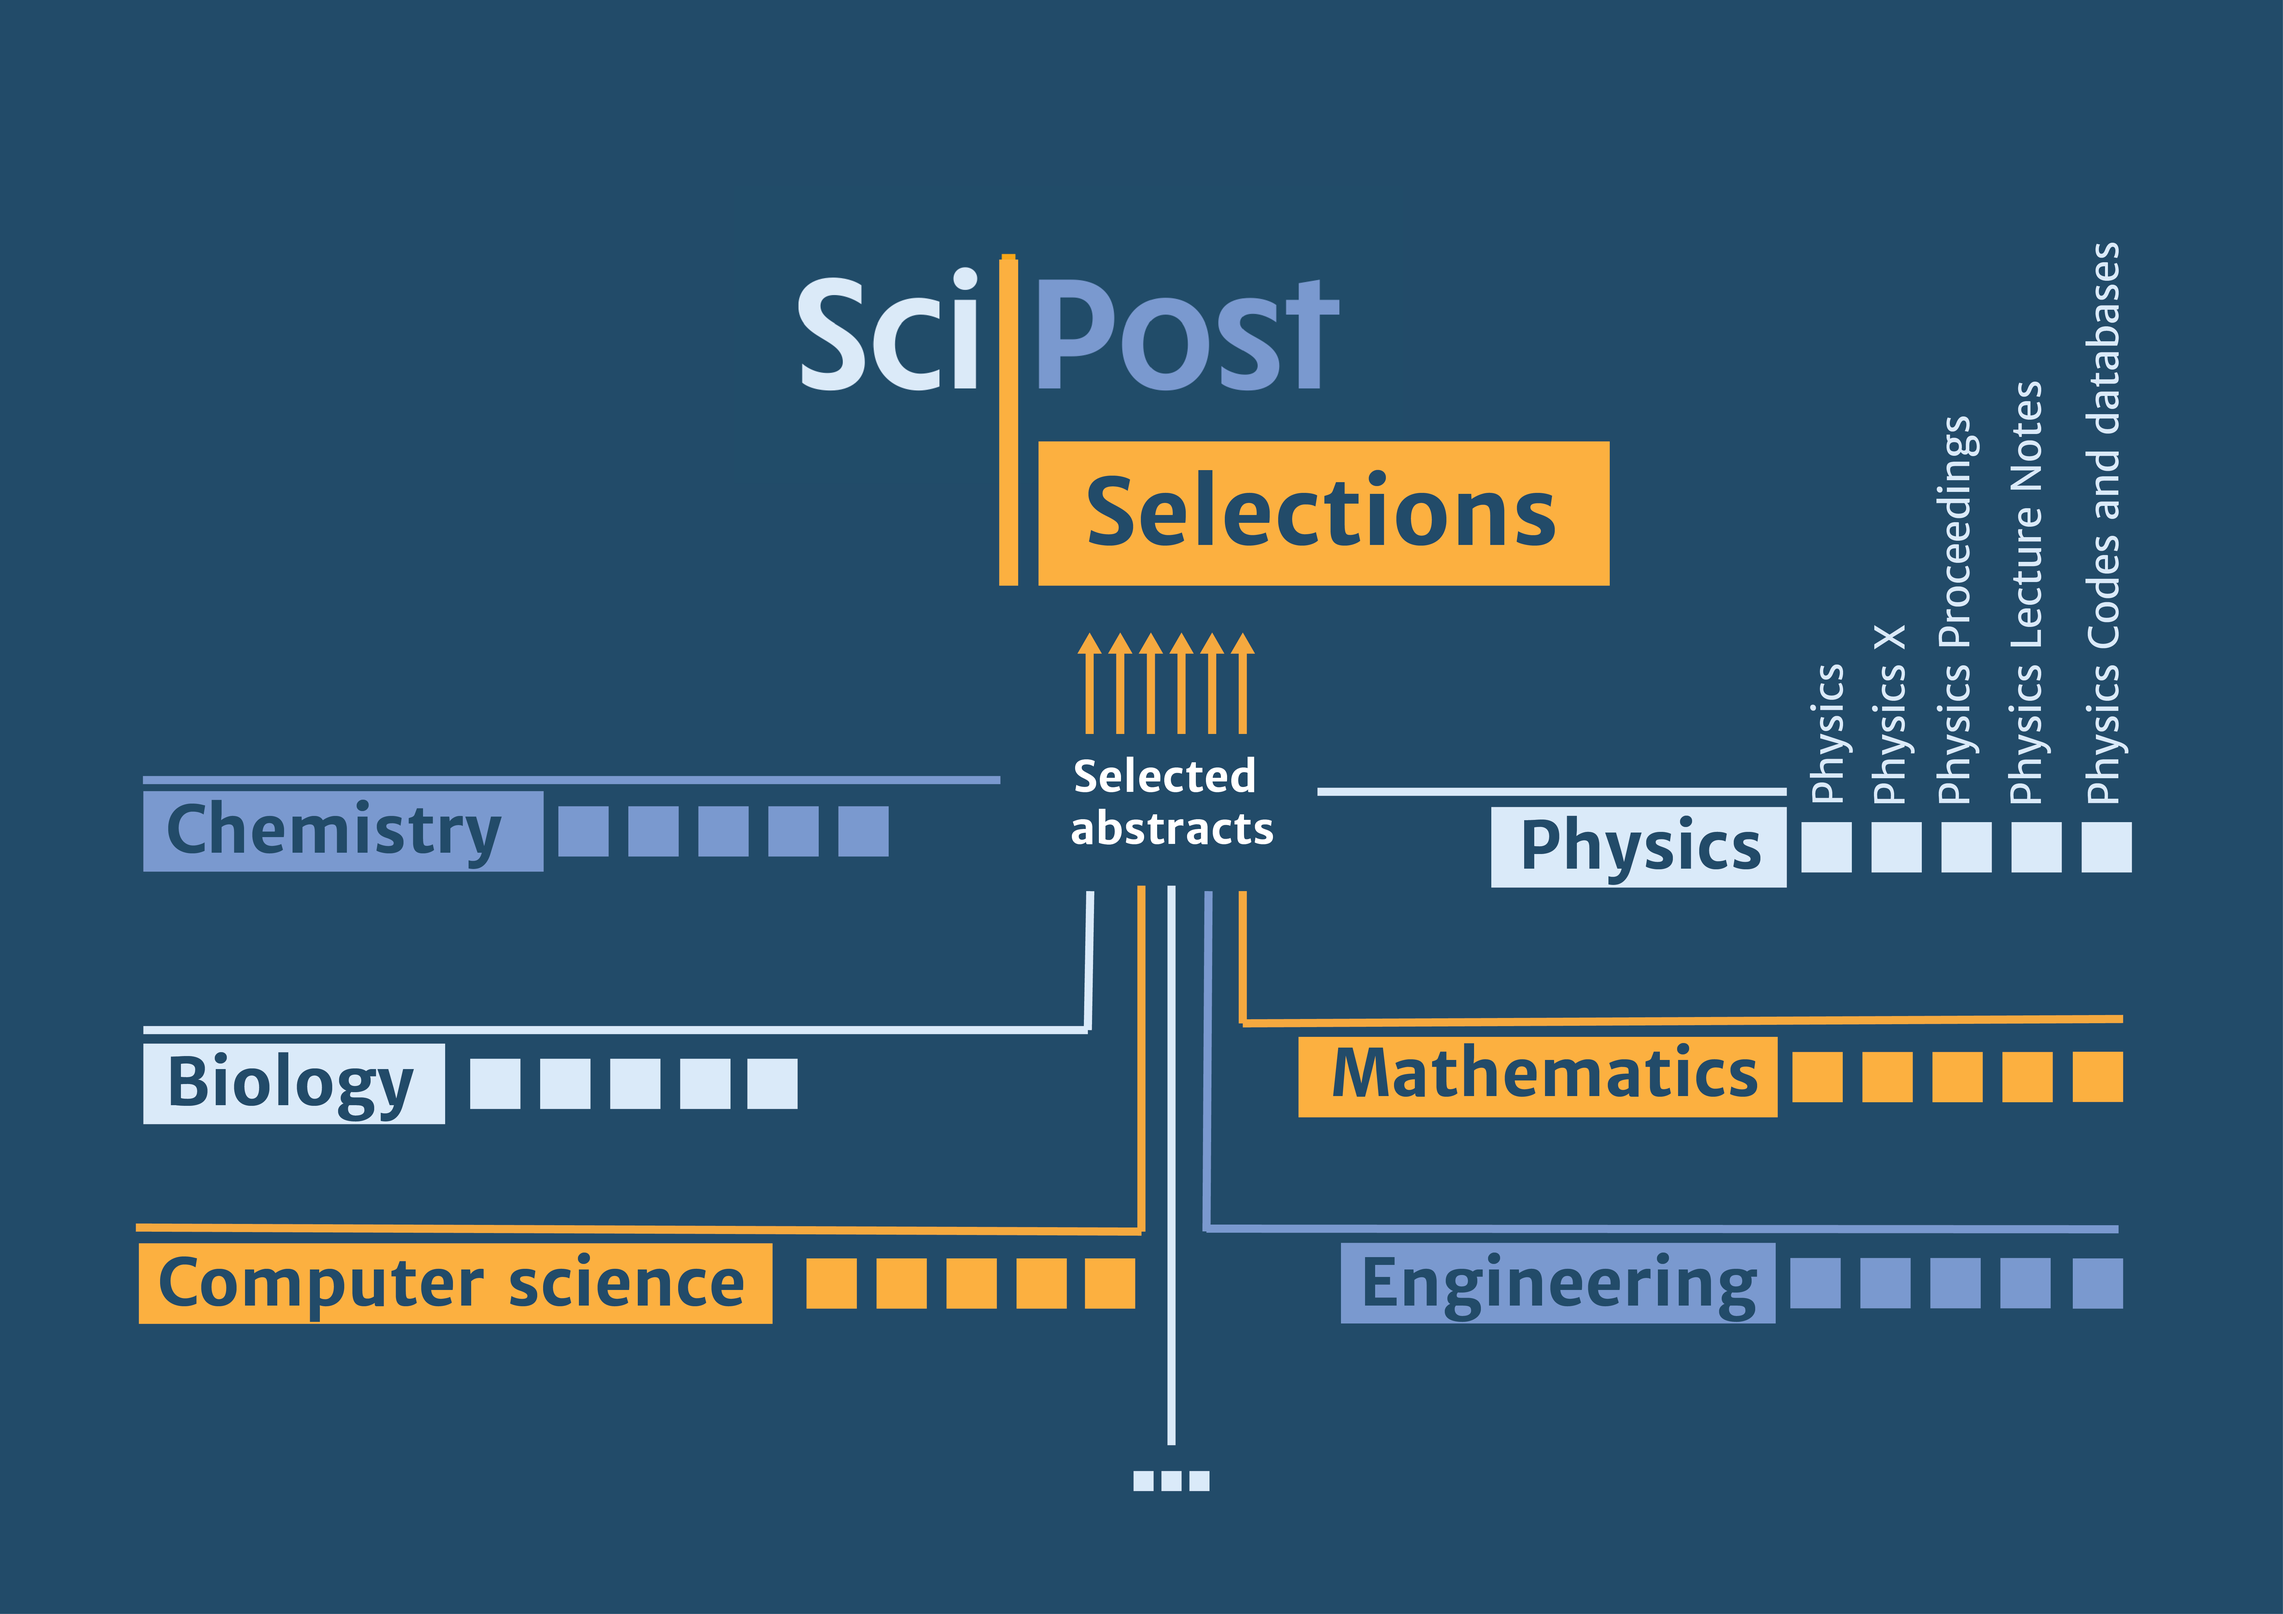
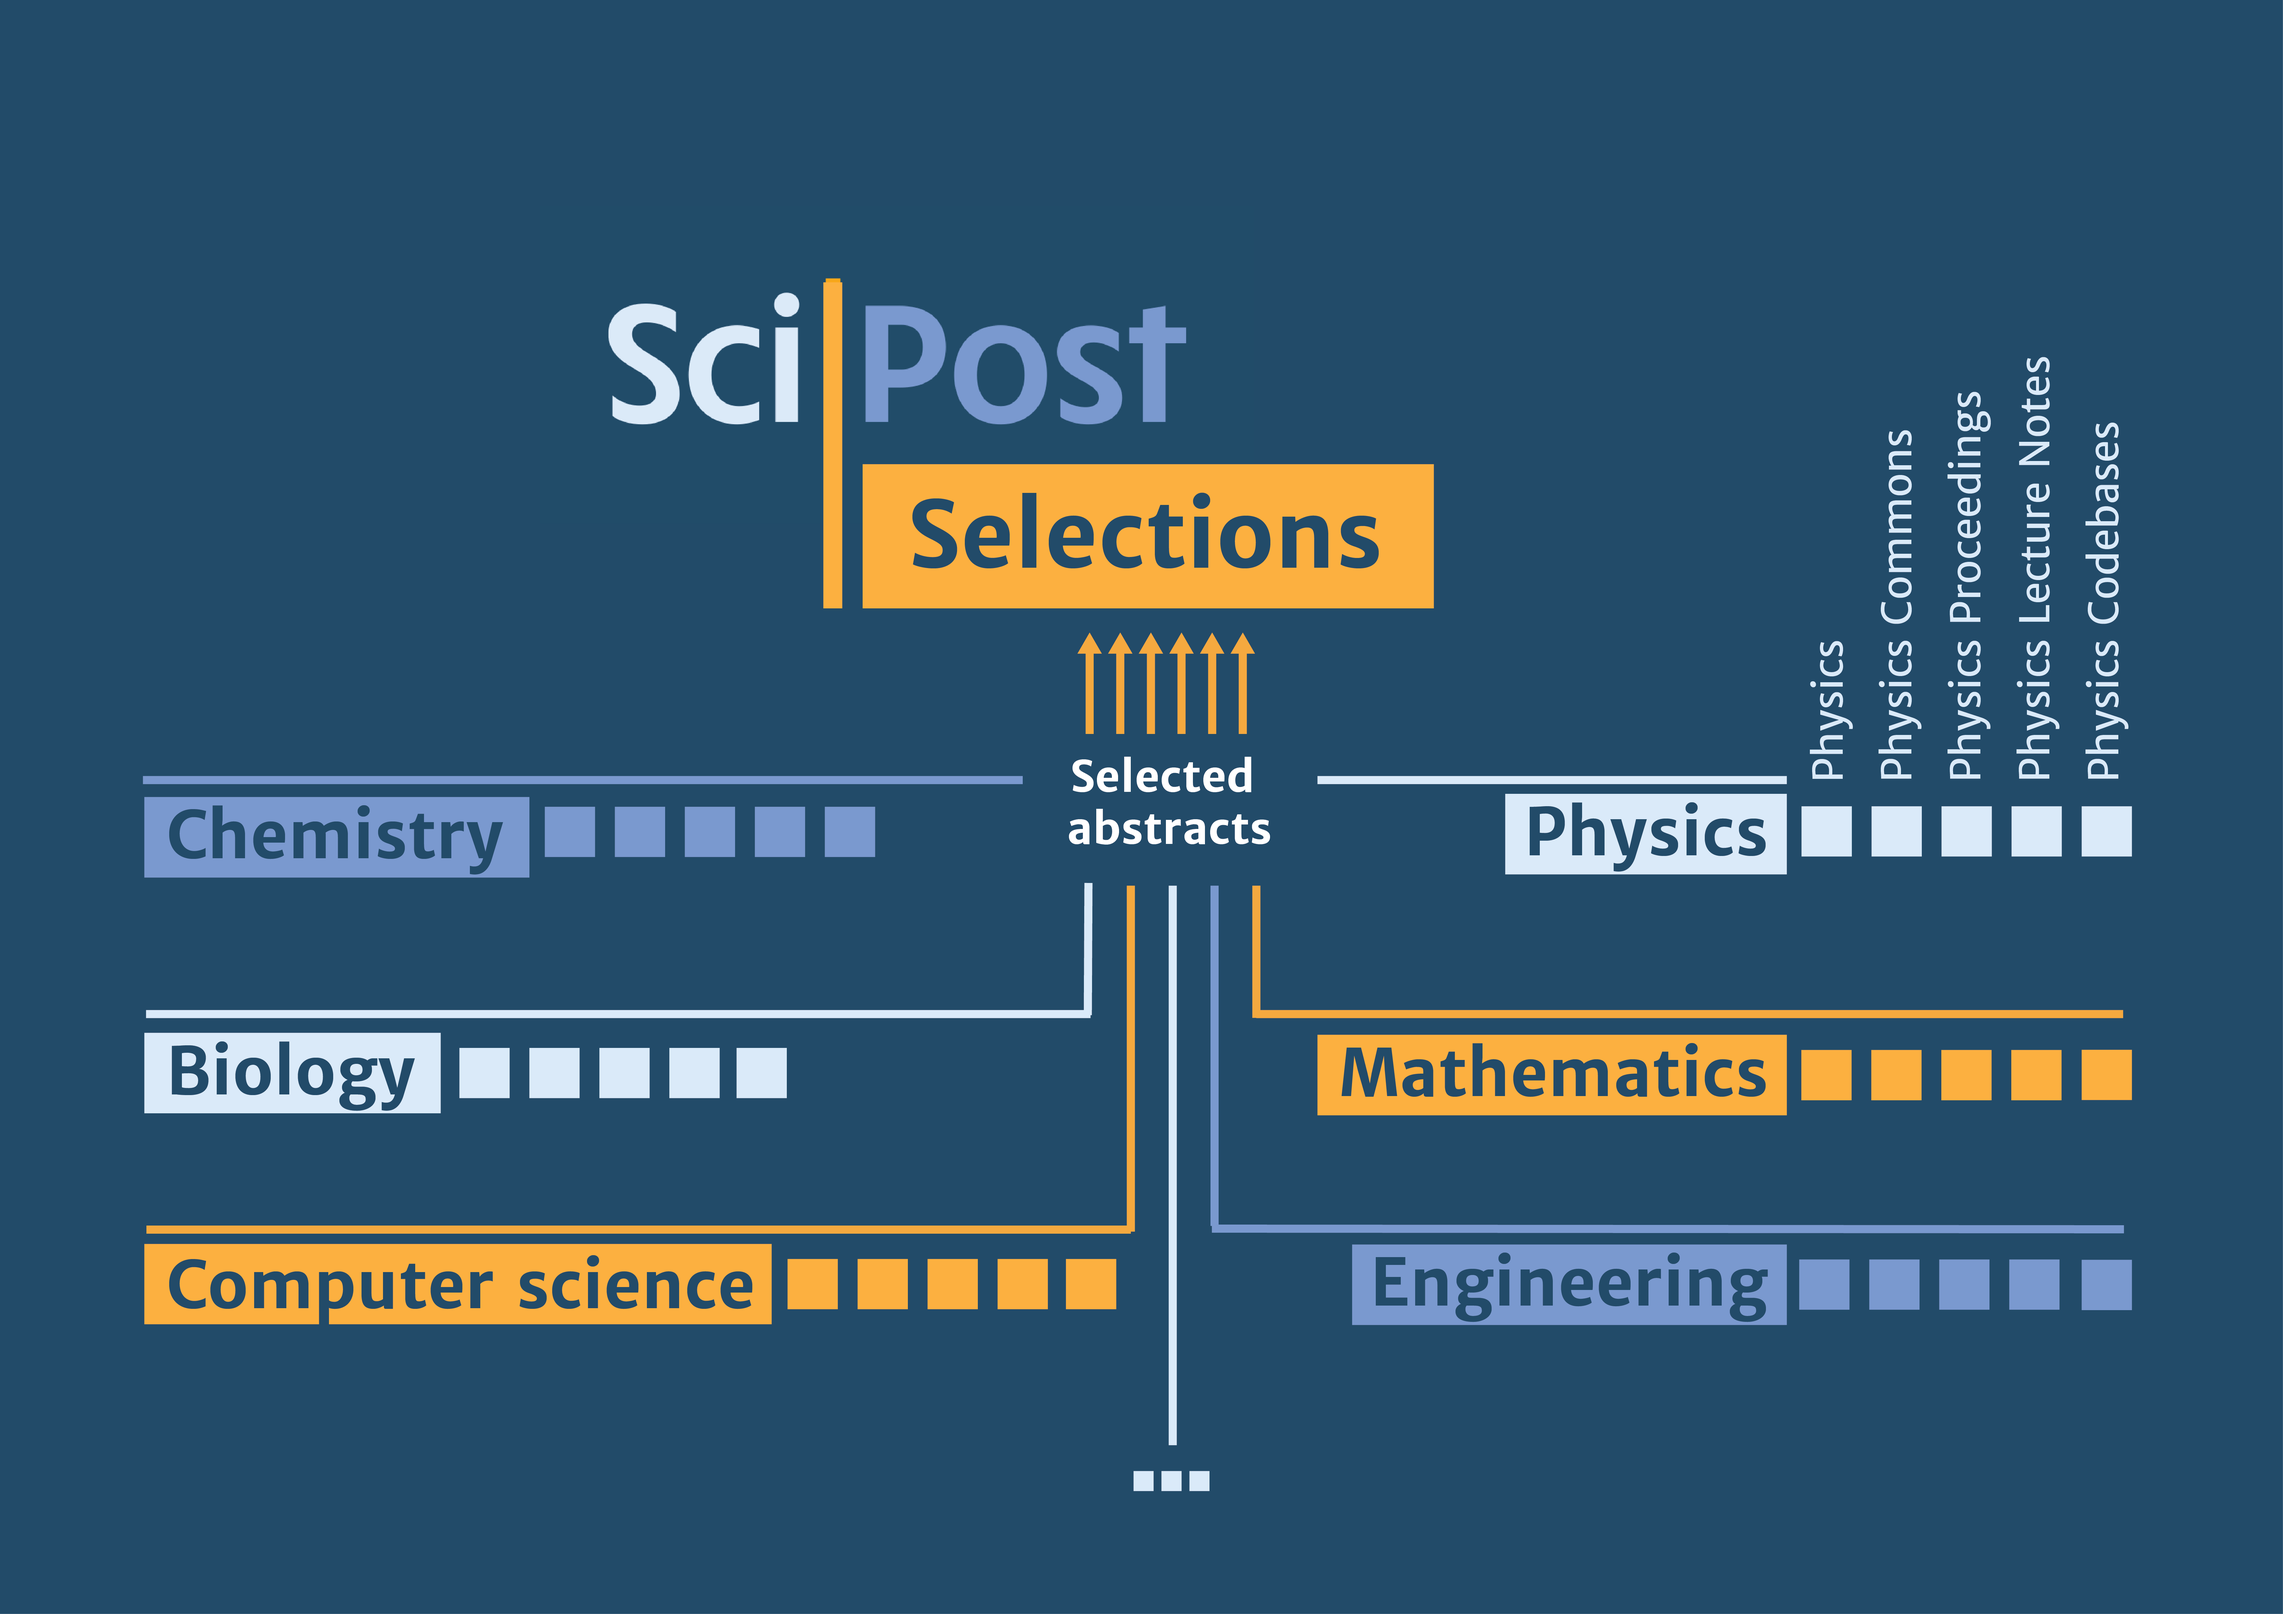
Define constants for new Journals: Physics Commons, Codebases

diff --git a/journals/templates/journals/journals.html b/journals/templates/journals/journals.html
@@ -64,14 +64,14 @@
   <h2><button class="btn btn-danger text-white mb-2 p-2" type="button" data-toggle="collapse" data-target="#WhereToSubmit" aria-expanded="false" aria-controls="WhereToSubmit"><strong>Help!</strong> Where should I submit?</button></h2>
   <div class="collapse" id="WhereToSubmit">
     <div class="card card-body">
-      <p>For <strong>Lecture Notes</strong>, <strong>Proceedings</strong> or <strong>Codebases/Datasets</strong>, the names say it all without ambiguity.</p>
+      <p>For <strong>Lecture Notes</strong>, <strong>Proceedings</strong> or <strong>Codebases</strong>, the names say it all without ambiguity.</p>
       <p>But what about your <strong>research results</strong>? Ask yourself these two questions:</p>
       <ul>
 	<li><em>Are these results exceptional in nature, in the sense that they represent a breakthrough or an achievement which clearly stands out?</em></li>
 	<li><em>Are you willing to make a special effort in conveying these results, in meeting the highest submission standards which we require, and in responding/reacting to any points raised under our toughest refereeing protocol?</em></li>
       </ul>
       <p>If you answered both questions in the affirmative, then consider submitting to <a href="{% url 'scipost:landing_page' 'SciPostPhys' %}">SciPost Physics</a>.</p>
-      <p>On the other hand, if your results represent a significant advance but you desire a simpler submission and refereeing process, then <a href="{% url 'scipost:landing_page' 'SciPostPhysAdv' %}">SciPost Physics Commons</a> will provide you with a more streamlined experience.</p>
+      <p>On the other hand, if your results represent a significant advance but you desire a simpler submission and refereeing process, then <a href="{% url 'scipost:landing_page' 'SciPostPhysComm' %}">SciPost Physics Commons</a> will provide you with a more streamlined experience.</p>
     </div>
   </div>
   <div class="card-deck">
@@ -89,7 +89,7 @@
     </div>
     <div class="card">
       <div class="card-header banner">
-	<h1 class="m-0"><a href="{% url 'scipost:landing_page' 'SciPostPhysAdv' %}">SciPost Physics Commons</a>&nbsp;&nbsp;<em><small style="color: red;">New!</small></em></h1>
+	<h1 class="m-0"><a href="{% url 'scipost:landing_page' 'SciPostPhysComm' %}">SciPost Physics Commons</a>&nbsp;&nbsp;<em><small style="color: red;">New!</small></em></h1>
       </div>
       <div class="card-body">
 	<p>SciPost Physics Commons is a premium-quality refereed Journal for the general field of Physics.</p>
@@ -122,15 +122,12 @@
     </div>
     <div class="card">
       <div class="card-header banner">
-	<h1 class="m-0"><a href="{% url 'scipost:landing_page' 'SciPostPhysCoDat' %}">SciPost Physics Codebases and Datasets</a>&nbsp;&nbsp;<em><small style="color: red;">New!</small></em></h1>
+	<h1 class="m-0"><a href="{% url 'scipost:landing_page' 'SciPostPhysCodeb' %}">SciPost Physics Codebases</a>&nbsp;&nbsp;<em><small style="color: red;">New!</small></em></h1>
       </div>
       <div class="card-body">
-	<p>SciPost Phys. CoDat. is an innovative peer-reviewed publication venue for modern forms of scientific contributions:</p>
-	<ul>
-	  <li>reuseable codebases</li>
-	  <li>structured datasets</li>
-	</ul>
-	<p>Submissions undergo stringent peer-witnessed refereeing, with criteria tailored for this type of content; accepted manuscripts become full-fledged publications.</p>
+	<p>SciPost Physics Codebases is an innovative peer-reviewed publication venue for modern forms of scientific contributions which too often remains unrecognized: codes and algorithms at the heart of contemporary research.</p>
+	<p>This Journal offers proper recognition for code authors, in the form of fully-fledged citable publications.</p>
+	<p>Submissions undergo stringent peer-witnessed refereeing, with criteria tailored for this type of content.</p>
       </div>
     </div>
   </div>

diff --git a/scipost/templates/scipost/PlanSciPost.html b/scipost/templates/scipost/PlanSciPost.html
@@ -54,7 +54,7 @@
 	<div class="card-header"><strong>Support</strong></div>
 	<div class="card-body">
 	  <ul>
-	    <li>Sufficient <a href="{% url 'sponsors:sponsors' %}">Sponsorships</a> to cover the equivalent of one more full-time editorial staff in our team</li>
+	    <li>Sufficient <a href="{% url 'sponsors:sponsors' %}">Sponsorships</a> to cover the expected workflow (minimum of one more full-time editorial staff per new field)</li>
 	  </ul>
 	</div>
       </div>

diff --git a/journals/constants.py b/journals/constants.py
@@ -5,14 +5,18 @@ __license__ = "AGPL v3"
 # These are DOI's of the Journals, they are used as keys for the choicefield in `models.Journal`!
 SCIPOST_JOURNAL_PHYSICS = 'SciPostPhys'
 SCIPOST_JOURNAL_PHYSICS_SELECT = 'SciPostPhysSel'
+SCIPOST_JOURNAL_PHYSICS_COMMONS = 'SciPostPhysComm'
 SCIPOST_JOURNAL_PHYSICS_LECTURE_NOTES = 'SciPostPhysLectNotes'
 SCIPOST_JOURNAL_PHYSICS_PROC = 'SciPostPhysProc'
+SCIPOST_JOURNAL_PHYSICS_CODEBASES = 'SciPostPhysCodeb'
 
 # Journal open for submission
 SCIPOST_JOURNALS_SUBMIT = (
     (SCIPOST_JOURNAL_PHYSICS, 'SciPost Physics'),
+    (SCIPOST_JOURNAL_PHYSICS_COMMONS, 'SciPost Physics Commons'),
     (SCIPOST_JOURNAL_PHYSICS_LECTURE_NOTES, 'SciPost Physics Lecture Notes'),
-    (SCIPOST_JOURNAL_PHYSICS_PROC, 'SciPost Physics Proceedings')
+    (SCIPOST_JOURNAL_PHYSICS_PROC, 'SciPost Physics Proceedings'),
+    (SCIPOST_JOURNAL_PHYSICS_CODEBASES, 'SciPost Physics Codebases'),
 )
 
 # Journal closed for submission

diff --git a/submissions/migrations/0037_auto_20181023_0829.py b/submissions/migrations/0037_auto_20181023_0829.py
@@ -1,0 +1,20 @@
+# -*- coding: utf-8 -*-
+# Generated by Django 1.11.4 on 2018-10-23 06:29
+from __future__ import unicode_literals
+
+from django.db import migrations, models
+
+
+class Migration(migrations.Migration):
+
+    dependencies = [
+        ('submissions', '0036_merge_20181002_1358'),
+    ]
+
+    operations = [
+        migrations.AlterField(
+            model_name='submission',
+            name='submitted_to_journal',
+            field=models.CharField(choices=[('SciPostPhys', 'SciPost Physics'), ('SciPostPhysComm', 'SciPost Physics Commons'), ('SciPostPhysLectNotes', 'SciPost Physics Lecture Notes'), ('SciPostPhysProc', 'SciPost Physics Proceedings'), ('SciPostPhysCodeb', 'SciPost Physics Codebases')], max_length=30, verbose_name='Journal to be submitted to'),
+        ),
+    ]

diff --git a/journals/migrations/0047_auto_20181023_0829.py b/journals/migrations/0047_auto_20181023_0829.py
@@ -1,0 +1,20 @@
+# -*- coding: utf-8 -*-
+# Generated by Django 1.11.4 on 2018-10-23 06:29
+from __future__ import unicode_literals
+
+from django.db import migrations, models
+
+
+class Migration(migrations.Migration):
+
+    dependencies = [
+        ('journals', '0046_auto_20181020_2008'),
+    ]
+
+    operations = [
+        migrations.AlterField(
+            model_name='journal',
+            name='name',
+            field=models.CharField(choices=[('SciPostPhys', 'SciPost Physics'), ('SciPostPhysComm', 'SciPost Physics Commons'), ('SciPostPhysLectNotes', 'SciPost Physics Lecture Notes'), ('SciPostPhysProc', 'SciPost Physics Proceedings'), ('SciPostPhysCodeb', 'SciPost Physics Codebases'), ('SciPostPhysSel', 'SciPost Physics Select')], max_length=100, unique=True),
+        ),
+    ]
